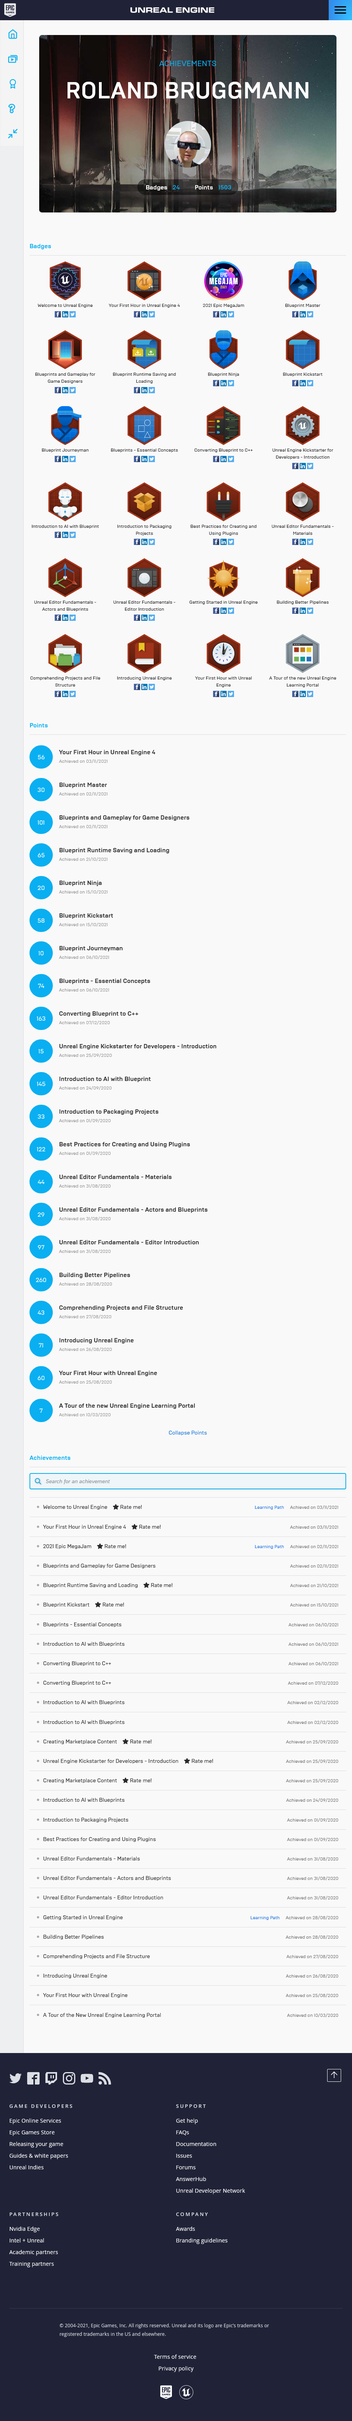
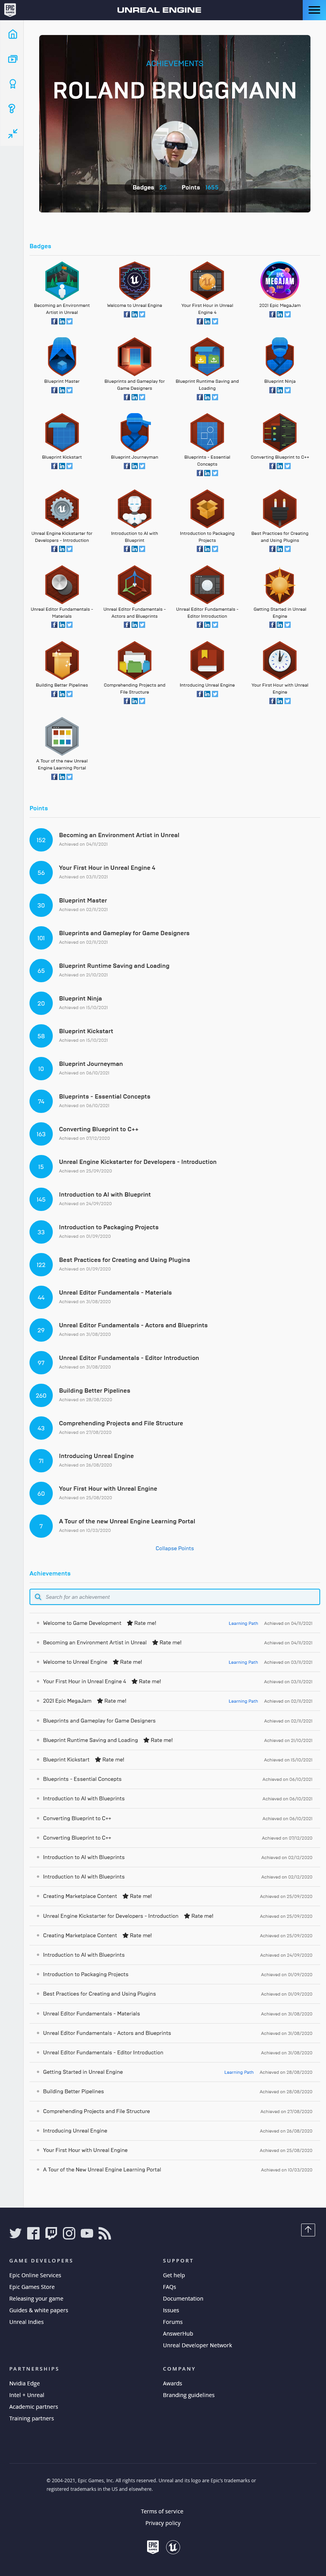
ue achievements

diff --git a/index.md b/index.md
@@ -162,6 +162,11 @@ List of completed on-line learning courses (external links).
   * <a href="https://www.unrealengine.com/en-US/onlinelearning-courses/comprehending-projects-and-file-structure" target="_blank">Comprehending Projects and File Structure</a>
   * <a href="https://www.unrealengine.com/en-US/onlinelearning-courses/blueprints-and-gameplay-for-game-designers" target="_blank">Blueprints and Gameplay for Game Designers</a>
   * <a href="https://www.unrealengine.com/en-US/onlinelearning-courses/becoming-an-environment-artist-in-unreal" target="_blank">Becoming an Environment Artist in Unreal</a>
+* <a href="https://www.unrealengine.com/en-US/onlinelearning-courses/2021-epic-megajam" target="_blank">2021 Epic MegaJam:</a>
+  * <a href="https://www.unrealengine.com/en-US/onlinelearning-courses/introducing-unreal-engine" target="_blank">Introducing Unreal Engine 4</a>
+  * <a href="https://www.unrealengine.com/en-US/onlinelearning-courses/blueprints---essential-concepts" target="_blank">Blueprints - Essential Concepts</a>
+  * <a href="https://www.unrealengine.com/en-US/onlinelearning-courses/blueprints-and-gameplay-for-game-designers" target="_blank">Blueprints and Gameplay for Game Designers</a>
+  * <a href="" target="_blank">Introduction to Packaging Projects</a>
 
 ### <a href="https://www.unrealengine.com/en-US/blog/become-a-blueprint-master-by-taking-this-online-learning-challenge" target="_blank">2021 Blueprint Ninja Challenge</a>
 
@@ -174,18 +179,12 @@ List of completed on-line learning courses (external links).
   * <a href="https://www.unrealengine.com/en-US/onlinelearning-courses/blueprint-runtime-saving-and-loading" target="_blank">Blueprint Runtime Saving and Loading</a>
   * <a href="https://www.unrealengine.com/en-US/onlinelearning-courses/blueprints-and-gameplay-for-game-designers" target="_blank">Blueprints and Gameplay for Game Designers</a>
 
-### <a href="https://www.unrealengine.com/en-US/onlinelearning-courses/2021-epic-megajam" target="_blank">2021 Epic MegaJam</a>
-
-* <a href="https://www.unrealengine.com/en-US/onlinelearning-courses/introducing-unreal-engine" target="_blank">Introducing Unreal Engine 4</a>
-* <a href="https://www.unrealengine.com/en-US/onlinelearning-courses/blueprints---essential-concepts" target="_blank">Blueprints - Essential Concepts</a>
-* <a href="https://www.unrealengine.com/en-US/onlinelearning-courses/blueprints-and-gameplay-for-game-designers" target="_blank">Blueprints and Gameplay for Game Designers</a>
-* <a href="" target="_blank">Introduction to Packaging Projects</a>
-
 ### Advanced Topics
 
+* <a href="https://www.unrealengine.com/en-US/onlinelearning-courses/introduction-to-ai-with-blueprints" target="_blank">Introduction to AI with Blueprint</a>
 * <a href="https://www.unrealengine.com/en-US/onlinelearning-courses/converting-blueprints-to-c" target="_blank">Converting Blueprints to C++</a>
 * <a href="https://www.unrealengine.com/en-US/onlinelearning-courses/best-practices-for-creating-and-using-plugins" target="_blank">Best Practices for Creating and Using Plugins</a>
-* <a href="https://www.unrealengine.com/en-US/onlinelearning-courses/introduction-to-ai-with-blueprints" target="_blank">Introduction to AI with Blueprint</a>
+* <a href="https://www.unrealengine.com/en-US/onlinelearning-courses/creating-marketplace-content" target="_blank">Creating Marketplace Content</a>
 
 Screenshot of Achievements:
 
